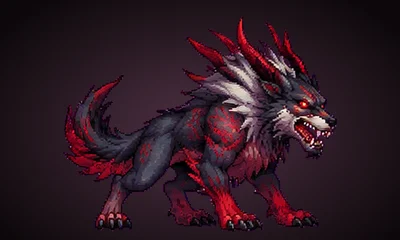
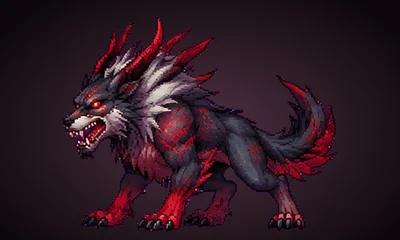
b134: stage monsters face the player's team
Claude-Session: https://claude.ai/code/session_01QmQpWu4DjinCPskbkXfnjC

diff --git a/index.html b/index.html
@@ -697,7 +697,7 @@ const ICON={
 ['sword','hammer','claw','exec','shield','heal','healall','drain','buff','fire','ice','dark'].forEach(k=>ICON['k_'+k]='ic/'+k+'.webp');
 const skBtn=(id,k,o={})=>{const sk=SK[id][k];return `<${o.tag||'button'} class="sk t-${sk[2]} ${k===2?'ult':''} ${o.cls||''}" ${o.attr||''} title="${sk[0]}"><img src="${ICON['k_'+sk[1]]}" alt="${sk[0]}">${o.cd?`<span class="cd">${o.cd}</span>`:''}</${o.tag||'button'}>`};
 const STAR='<svg viewBox="0 0 24 24"><path d="M12 2.5l2.9 6.3 6.8.8-5 4.7 1.3 6.8-6-3.4-6 3.4 1.3-6.8-5-4.7 6.8-.8z"/></svg>';
-const sprite=(id,cls='',st='',pre='',post='')=>`<span class="spr ${cls}" style="${st}">${pre}<i><img src="spr/${id}.webp" alt="" style="animation-delay:-${(id.charCodeAt(1)*7+id.charCodeAt(2)*3)%8/10}s"></i>${post}</span>`;
+const sprite=(id,cls='',st='',pre='',post='')=>`<span class="spr ${cls}" style="${st}">${pre}<i><img src="spr/${id}.webp${C[id]&&C[id].mon?'?2':''}" alt="" style="animation-delay:-${(id.charCodeAt(1)*7+id.charCodeAt(2)*3)%8/10}s"></i>${post}</span>`;
 // the same character drawn with its rank aura, so a card's rank shows wherever the avatar walks
 // rank effects on a standing character, matching its card: Rare and above twinkle, Legend crackles with gold lightning, SuperLegend stands in red fire, Limited in blue fire
 const HSPK=[[10,24,0],[90,34,.8],[18,72,1.5],[86,80,.4],[50,6,1.1]].map(([x,y,d])=>`<b class="sp" style="left:${x}%;top:${y}%;animation-delay:${d}s"></b>`).join('');
@@ -1956,7 +1956,7 @@ function titleScreen(){
    <p class="cfoot nt">PixelDeckBattle · CBT build ${BUILD}</p></div>`);
 }
 // ---------- Firebase: Google sign-in and one cloud save document per account (saves/{uid}) ----------
-const BUILD='b133';
+const BUILD='b134';
 // The game moved to its own address. Anyone opening the old address is sent on, but only once the new site answers, so a broken move cannot lock players out.
 const DISCORD='https://discord.gg/dHDzRyPG9',DC_SVG='<svg viewBox="0 0 24 24" width="20" height="20" aria-hidden="true"><path fill="currentColor" d="M20.317 4.3698a19.7913 19.7913 0 00-4.8851-1.5152.0741.0741 0 00-.0785.0371c-.211.3753-.4447.8648-.6083 1.2495-1.8447-.2762-3.68-.2762-5.4868 0-.1636-.3933-.4058-.8742-.6177-1.2495a.077.077 0 00-.0785-.037 19.7363 19.7363 0 00-4.8852 1.515.0699.0699 0 00-.0321.0277C.5334 9.0458-.319 13.5799.0992 18.0578a.0824.0824 0 00.0312.0561c2.0528 1.5076 4.0413 2.4228 5.9929 3.0294a.0777.0777 0 00.0842-.0276c.4616-.6304.8731-1.2952 1.226-1.9942a.076.076 0 00-.0416-.1057c-.6528-.2476-1.2743-.5495-1.8722-.8923a.077.077 0 01-.0076-.1277c.1258-.0943.2517-.1923.3718-.2914a.0743.0743 0 01.0776-.0105c3.9278 1.7933 8.18 1.7933 12.0614 0a.0739.0739 0 01.0785.0095c.1202.099.246.1981.3728.2924a.077.077 0 01-.0066.1276 12.2986 12.2986 0 01-1.873.8914.0766.0766 0 00-.0407.1067c.3604.698.7719 1.3628 1.225 1.9932a.076.076 0 00.0842.0286c1.961-.6067 3.9495-1.5219 6.0023-3.0294a.077.077 0 00.0313-.0552c.5004-5.177-.8382-9.6739-3.5485-13.6604a.061.061 0 00-.0312-.0286zM8.02 15.3312c-1.1825 0-2.1569-1.0857-2.1569-2.419 0-1.3332.9555-2.4189 2.157-2.4189 1.2108 0 2.1757 1.0952 2.1568 2.419 0 1.3332-.9555 2.4189-2.1569 2.4189zm7.9748 0c-1.1825 0-2.1569-1.0857-2.1569-2.419 0-1.3332.9554-2.4189 2.1569-2.4189 1.2108 0 2.1757 1.0952 2.1568 2.419 0 1.3332-.946 2.4189-2.1568 2.4189Z"/></svg>';
 const NEW_HOME='https://pixeldeckbattle.github.io/';
